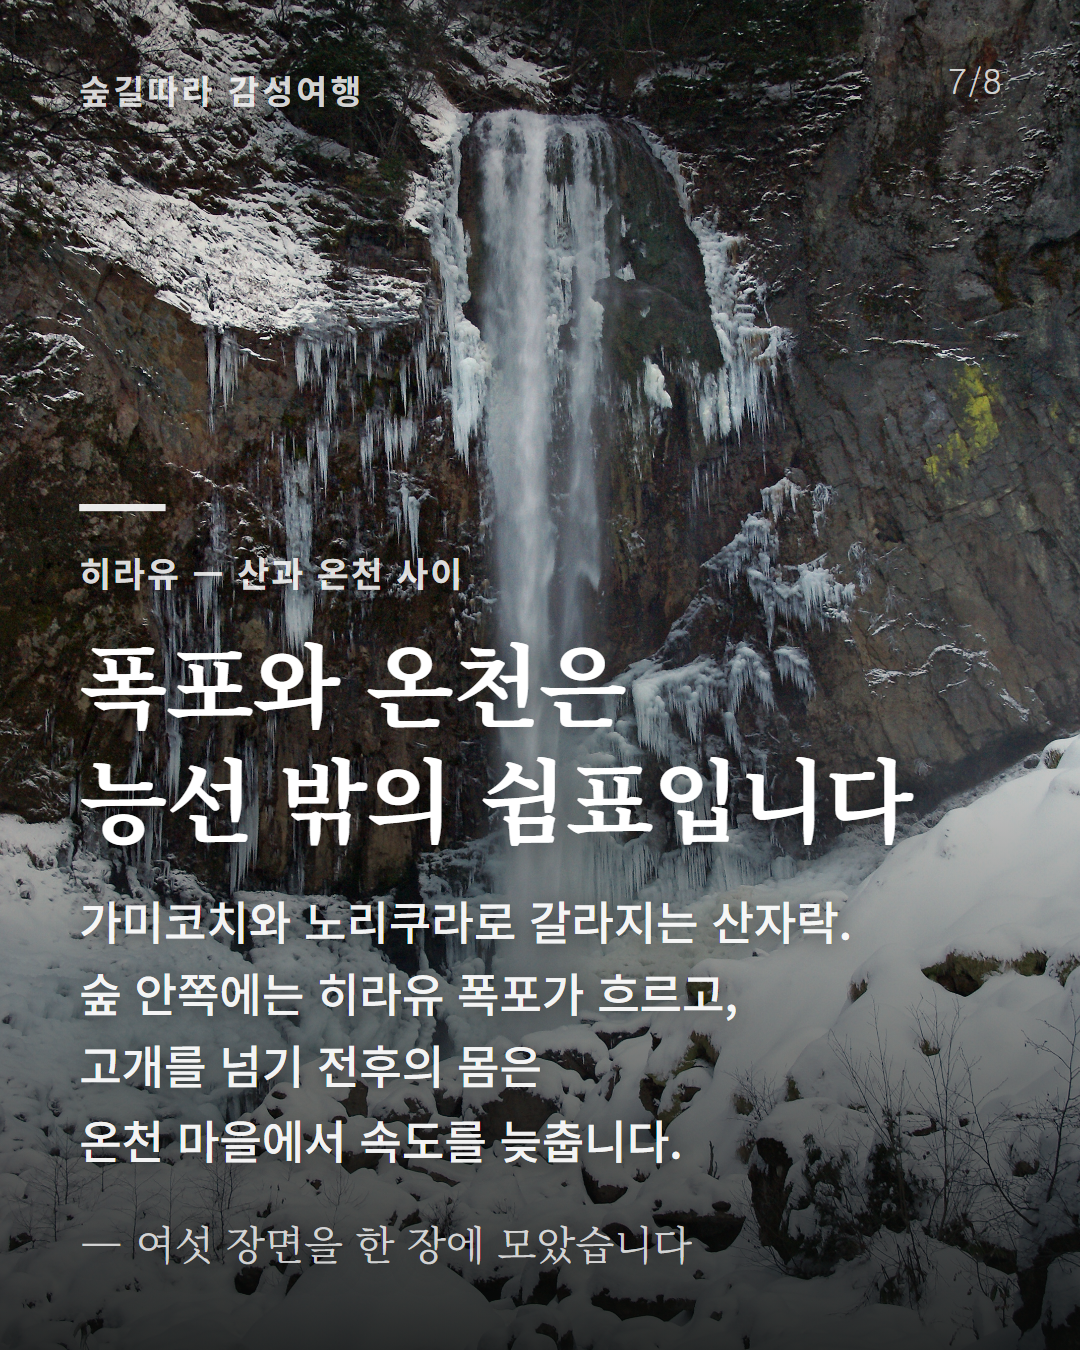
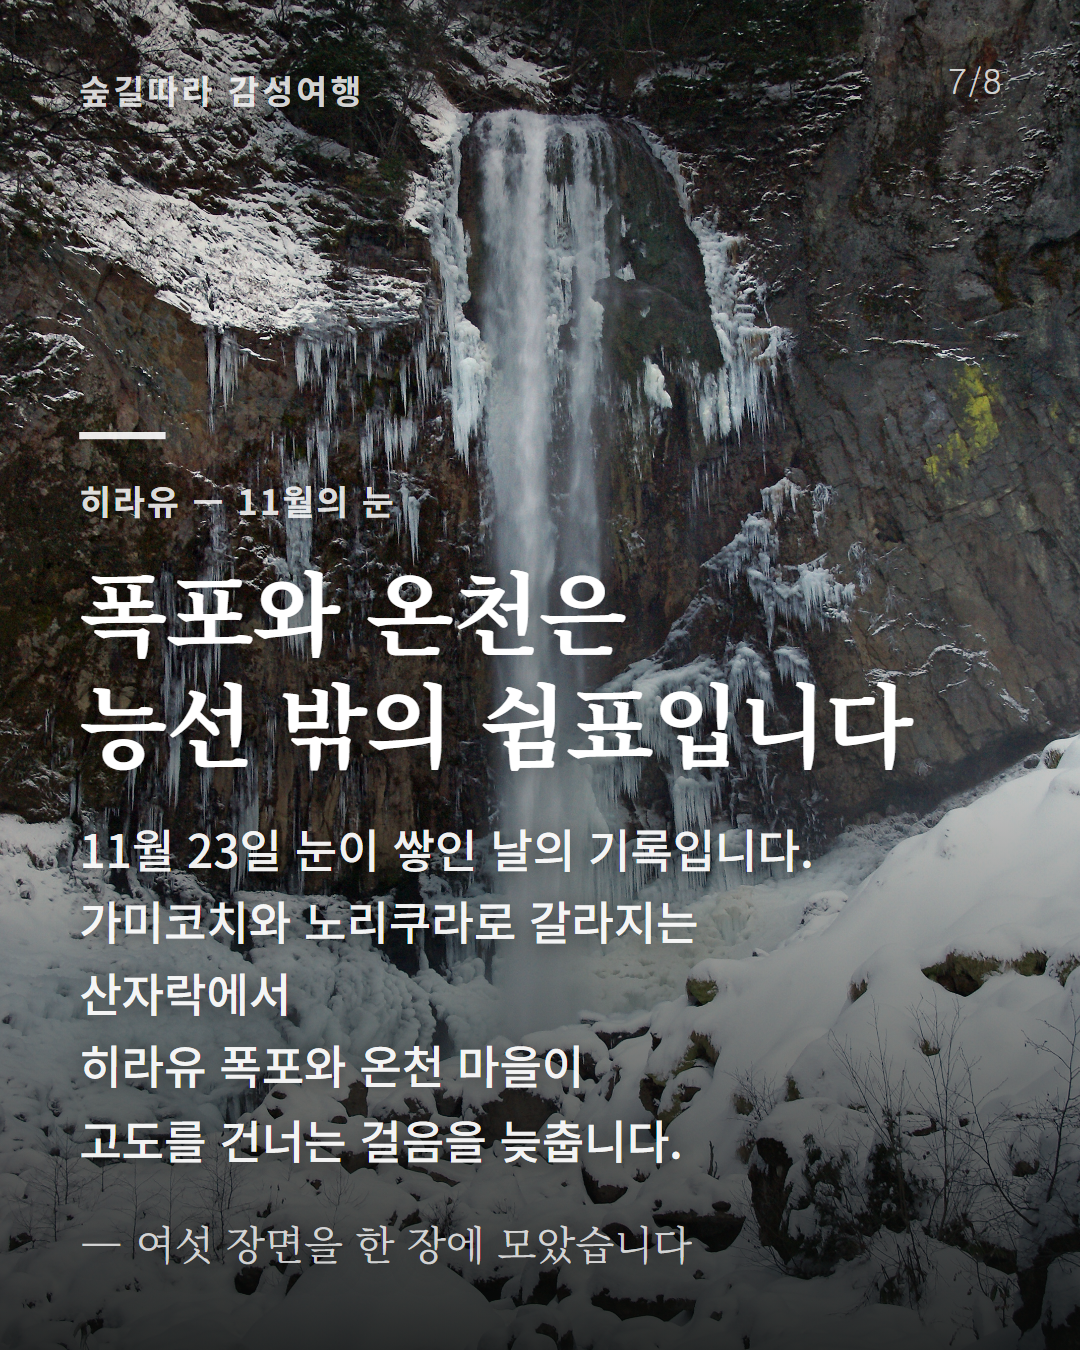
fix: apply Northern Alps publication review

Changed region(s): [[0.0611, 0.3111, 0.8556, 0.7156], [0.0611, 0.7156, 0.6722, 0.8711]]

diff --git a/cardnews/photos/northern-alps/출처.md b/cardnews/photos/northern-alps/출처.md
@@ -8,14 +8,14 @@
 
 | 카드 | 로컬 파일 | 장소 근거 | 저작자 · 라이선스 | 원문 · 고정 리비전 | 내려받은 크기 · SHA-256 |
 |---|---|---|---|---|---|
[14 lines of base64/hex data omitted]
 
 각 JPEG의 API 원문 URL·다운로드 시각·Commons SHA-1·원본/다운로드 픽셀·설명·범주·좌표·
 SHA-256은 같은 이름의 `*.source.json`에 보존한다.

diff --git a/cardnews/series/northern-alps/사실-검증.md b/cardnews/series/northern-alps/사실-검증.md
@@ -12,8 +12,8 @@
 | 04 | 다이칸보 구름 위 테라스에서 구로베호와 가을 산색을 내려다볼 수 있음 | ✅ | 공식 Landmarks의 Cloud-top Terrace 설명 |
 | 05 | 구로베댐은 높이 186m로 일본에서 가장 높은 댐이며 상부를 걸을 수 있음 | ✅ | 공식 Landmarks: https://www.alpen-route.com/en/how-to-enjoy/landmarks/ |
 | 06 | 가미코치는 해발 1,500m의 산악 계곡이며 갓파바시에서 호타카 연봉·아즈사가와를 조망 | ✅ | 가미코치 공식 갓파바시 안내: https://www.kamikochi.or.jp/learn/spots/1319/ |
-| 06 | “난도가 높지 않은 강변 코스” | ✅(표현 제한) | 가미코치 공식 산책로 맥락. “평지·누구나 가능”으로 확대하지 않고 노면·체력 차이를 남긴다. |
-| 07 | 히라유 폭포는 다카야마시 히라유의 실제 명소이며 가미코치·노리쿠라 권역의 산자락 | ✅ | 사진 원문 위치·Wikimedia 범주 및 중부산악국립공원 권역 자료: https://www.env.go.jp/en/nature/nps/park/chubu/index.html |
+| 06 | “난도가 높지 않은 강변 코스” | ✅(표현 제한) | 가미코치 공식 걷기 코스: https://www.kamikochi.org/thingstodo/walking — “평지·누구나 가능”으로 확대하지 않고 노면·체력 차이를 남긴다. |
+| 07 | 히라유 폭포는 다카야마시 히라유의 실제 명소이며 가미코치·노리쿠라로 이어지는 관문 | ✅ | 히라유온천 공식 FAQ: https://www.hirayuonsen.or.jp/qa.php · 사진 원문 위치·Wikimedia 범주 |
 
 ## 계절·사진 정합성
 
@@ -21,7 +21,8 @@
 - 02 미쿠리가이케·04 구로베댐: 2021-09-21 촬영.
 - 03 다테야마 로프웨이: 2022-05-07 촬영. 사진 속 눈을 특정 게시월의 현황으로 말하지 않는다.
 - 04 다이칸보: 2011-10-13 촬영. 원문 좌표·Lake Kurobe·Tateyama 범주와 촬영일을 확인했다.
-- 06 아즈사가와·07 히라유 폭포: 촬영일 미기재. 계절을 단정하지 않는다.
+- 06 아즈사가와: 2011-07-26 촬영.
+- 07 히라유 폭포: 2007-11-23 촬영. 눈·고드름이 보이는 초겨울 장면이므로 카드와 랜딩에서 촬영일을 밝히고, 연결 출발일의 적설·현황으로 오인시키지 않는다.
 - 08 최종 카드: 가미코치~야리가타케 산행로의 2012-10-22 단풍 사진.
 - 구로베댐 관광 방류는 통상 6월 26일~10월 15일이며 날씨로 취소될 수 있다. 연결 상품 출발일과
   맞지 않으므로 이번 카드에는 방류 장면·방류 기대 문구를 쓰지 않는다.

diff --git a/LOG.md b/LOG.md
@@ -238,3 +238,26 @@
     `OAuthException code 200: API access blocked`를 반환했다.
   - 토큰을 로그에 출력하거나 갱신 결과를 저장하지 않았으며, 이번 교정은 로그인된 Chrome의
     공식 Instagram 편집 화면에서 수행했다.
+
+---
+
+## 2026-07-27 — 북알프스 004 카드뉴스·출처·독립 검토
+
+- `나만 몰랐던 일본 · 004 — 북알프스` 8장 캐러셀과 게시 캡션을 완성했다.
+- 실제 장소 사진 8장은 Wikimedia Commons의 CC BY 2.0/2.5/3.0/4.0만 사용하며,
+  사진별 저작자·원문·고정 revision·촬영일·다운로드일·Commons SHA-1·로컬 SHA-256·
+  원본/다운로드 픽셀·가공 내역·장소 근거를 보존했다.
+- 독립 사실·라이선스 검토를 반영했다.
+  - 2,450m는 미쿠리가이케가 아니라 무로도 고도임을 명확히 했다.
+  - 히라유 폭포는 2007-11-23 눈 쌓인 촬영임을 카드와 캡션에서 밝혔고,
+    현재 단풍·적설이나 연결 출발일의 현황으로 오인시키지 않는다.
+  - 실제 3840×2560 JPEG 6장의 출처 JSON·원장을 잘못된 2400×1600 기록에서 교정했다.
+  - 가미코치 걷기와 히라유 교통 관문의 직접 공식 출처를 추가했다.
+- 독립 UX 검토를 반영해 마지막 장을 여섯 단서로 통일하고 히라유를 포함했으며,
+  긴 첫 항목과 `작은 지도` 과장 표현을 줄였다.
+- `validate-cardnews-sources.mjs`가 JPEG SOF 픽셀 크기와 출처 JSON을 직접 대조하도록
+  강화해 동일한 기록 오류가 다시 통과하지 않게 했다.
+- 8장 1080×1350 PNG 재렌더와 게시용 JPEG 변환·드라이런을 완료했다.
[1 lines of base64/hex data omitted]
+  - 출처 검증, Instagram 자동화 테스트 4건, `git diff --check` 통과.
+- 실제 Instagram 게시와 공개 랜딩 배포 결과는 다음 운영 체크포인트에 기록한다.

diff --git a/cardnews/series/northern-alps/캡션.md b/cardnews/series/northern-alps/캡션.md
@@ -11,8 +11,8 @@
 산의 물이 모인 186m 높이의 댐,
 폭포와 온천이 놓인 능선 밖의 쉼표까지.
 
-이 다섯 장면을 저장해 두세요.
-오르지 않아도 만날 수 있는 북알프스의 작은 지도가 됩니다.
+이 여섯 장면을 저장해 두세요.
+오르지 않아도 만날 수 있는 북알프스의 기억 단서가 됩니다.
 
 카드에 다 담지 못한 고도와 강변 이야기는
 프로필 링크의 북알프스 기록에서 이어집니다.
@@ -20,6 +20,7 @@
 사진: 663highland, Raita Futo, くろふね, Σ64, Paul Keller
 라이선스: CC BY 2.0/2.5/3.0/4.0
 가공: 4:5 크롭, 색·명암 조정, 하단 스크림과 글자 추가
+사진은 서로 다른 해·계절에 촬영됐으며 현재의 단풍·적설 상황을 뜻하지 않습니다.
 사진별 원문·고정 리비전·라이선스: foresttour.kr 북알프스 기록의 출처
 
 #북알프스 #다테야마구로베알펜루트 #가미코치 #구로베댐
